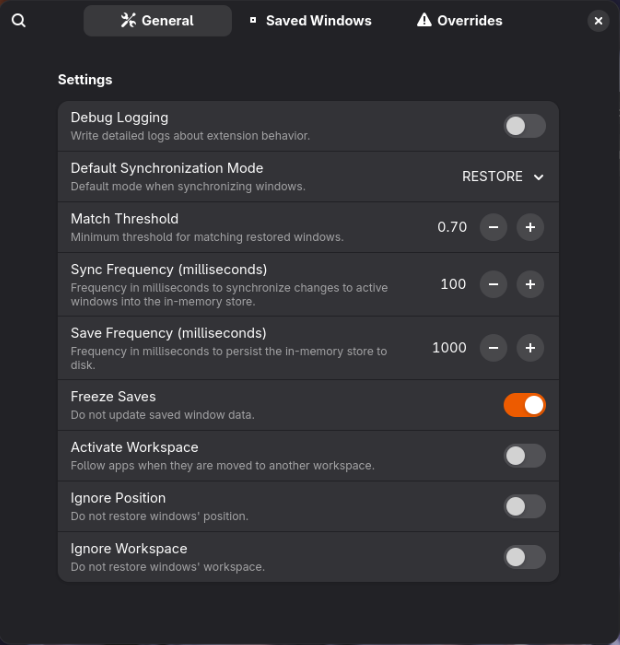
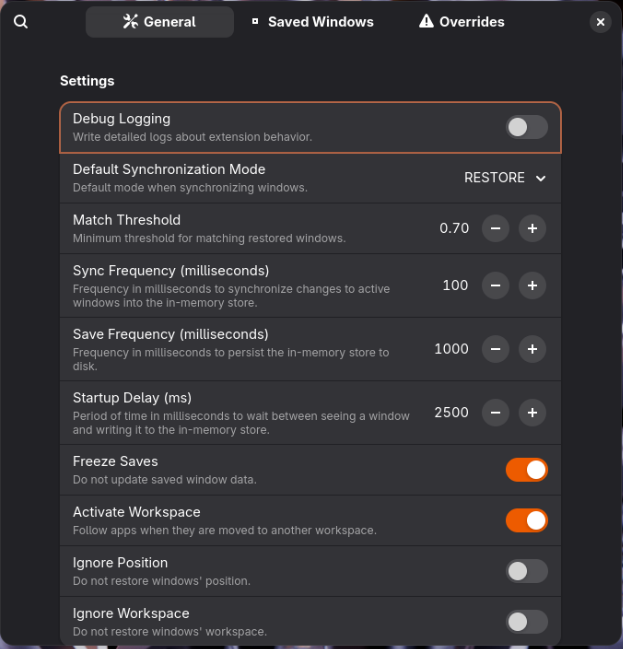
Adds startup delay to preferences (#11)
* Adds startup delay setting

Introduces a new setting to control the delay between window detection and saving.

This allows users to fine-tune how quickly the extension reacts to new windows.

Also adjusts increment rates for match threshold and other settings.

* Bumped version

* Screenshot

diff --git a/SmartAutoMoveNG@lauinger-clan.de/prefs.js b/SmartAutoMoveNG@lauinger-clan.de/prefs.js
@@ -85,7 +85,7 @@ export default class SAMPreferences extends ExtensionPreferences {
         const page3 = builder.get_object("smartautomove_page3");
         window.add(page3);
         const matchthresholdspin = builder.get_object("match-threshold-spin");
-        matchthresholdspin.set_climb_rate(0.1);
+        matchthresholdspin.set_climb_rate(0.05);
         matchthresholdspin.set_digits(2);
         matchthresholdspin.set_numeric(true);
         const syncfrequencyspin = builder.get_object("sync-frequency-spin");
@@ -94,6 +94,9 @@ export default class SAMPreferences extends ExtensionPreferences {
         const savefrequencyspin = builder.get_object("save-frequency-spin");
         savefrequencyspin.set_climb_rate(50);
         savefrequencyspin.set_numeric(true);
+        const startupdelayspin = builder.get_object("startup-delay-spin");
+        startupdelayspin.set_climb_rate(100);
+        startupdelayspin.set_numeric(true);
         this._rebuildOverrides = true; // do we need to rebuild the overrides list?
 
         this._general(this.getSettings(), builder);
@@ -126,6 +129,7 @@ export default class SAMPreferences extends ExtensionPreferences {
                 "save-frequency-spin",
                 "value",
             ],
+            [Common.SETTINGS_KEY_STARTUP_DELAY, "startup-delay-spin", "value"],
             [Common.SETTINGS_KEY_FREEZE_SAVES, "freeze-saves-switch", "active"],
             [
                 Common.SETTINGS_KEY_ACTIVATE_WORKSPACE,

diff --git a/README.md b/README.md
@@ -11,7 +11,7 @@ is a Gnome Shell extension which keeps track of all application windows and rest
   </a>
 </p>
 
-## screenshots
+## Screenshots
 
 #### QuickSettings
 
@@ -31,43 +31,43 @@ The toggle in quicksettings is connected to the "Freeze saves" switch of setting
 
 ![screenshot: overrides preferences](docs/screenshot-overrides.png)
 
-## getting started
+## Getting started
 
-most settings can be modified via the extension preferences dialog.
+Most settings can be modified via the extension preferences dialog.
 
-### defaults
+### Defaults
 
-the first step is to choose your **Default Synchronization Mode**: `IGNORE` or `RESTORE`. `IGNORE` will keep track of windows but will not restore any unless an **Override** with `RESTORE` behavior is created. `RESTORE` will keep track and restore all windows unless an **Override** with `IGNORE` behavior is created.
+The first step is to choose your **Default Synchronization Mode**: `IGNORE` or `RESTORE`. `IGNORE` will keep track of windows but will not restore any unless an **Override** with `RESTORE` behavior is created. `RESTORE` will keep track and restore all windows unless an **Override** with `IGNORE` behavior is created.
 
-next is to choose your global **Match Threshold**, the default works well for most use cases. a number closer to `0.0` will match windows with less similar attributes, whereas `1.0` requires an exact match.
+Next is to choose your global **Match Threshold**, the default works well for most use cases. a number closer to `0.0` will match windows with less similar attributes, whereas `1.0` requires an exact match.
 
-advanced users can also tune extension resource usage. adjust **Sync Frequency** (memory and CPU) and **Save Frequency** (disk I/O).
+Advanced users can also tune extension resource usage. adjust **Sync Frequency** (memory and CPU) and **Save Frequency** (disk I/O).
 
-after you've dialed in your overrides, the learning apparatus can be paused. enable **Freeze Saves** to prevent changes to Saved Windows. N.B. this lose track of windows if their titles change.
+After you've dialed in your overrides, the learning apparatus can be paused. enable **Freeze Saves** to prevent changes to Saved Windows. N.B. this lose track of windows if their titles change.
 
 ### overrides
 
-to create an override, visit the **Saved Windows** tab.
+To create an override, visit the **Saved Windows** tab.
 
-to create an override for a specific window, click **OVERRIDE**.
+To create an override for a specific window, click **OVERRIDE**.
 
-to create an override for an entire application, click **OVERRIDE (ANY)**.
+To create an override for an entire application, click **OVERRIDE (ANY)**.
 
-after you've created an override, visit the **Overrides** tab.
+After you've created an override, visit the **Overrides** tab.
 
-you can change the IGNORE/RESTORE behavior here for apps and windows.
+You can change the IGNORE/RESTORE behavior here for apps and windows.
 
-for applications, a custom **Match Threshold** can be set.
+For applications, a custom **Match Threshold** can be set.
 
-## limitations
+## Limitations
 
-LIMITATION: terminals which include the current directory in the title may not reach the match threshold if they do not preserve the working directory across restarts. WORKAROUND: create a per-app override (see above) and set the threshold to a lower value, eg. `0.2`
+LIMITATION: Terminals which include the current directory in the title may not reach the match threshold if they do not preserve the working directory across restarts. WORKAROUND: create a per-app override (see above) and set the threshold to a lower value, eg. `0.2`
 
-LIMITATION: multi-monitor is not well supported and may result in windows becoming "stuck". WORKAROUND: visit the "Saved Windows" tab in preferences and delete any stuck windows.
+LIMITATION: Multi-monitor is not well supported and may result in windows becoming "stuck". WORKAROUND: visit the "Saved Windows" tab in preferences and delete any stuck windows.
 
-## troubleshooting
+## Troubleshooting
 
-if everything is horribly broken, clear your Saved Windows:
+If everything is horribly broken, clear your Saved Windows:
 
 ```
 $ gnome-extensions disable SmartAutoMoveNG@lauinger-clan.de
@@ -77,18 +77,18 @@ $ dconf write /org/gnome/shell/extensions/SmartAutoMoveNG/saved-windows '{}'
 $ gnome-extensions enable SmartAutoMoveNG@lauinger-clan.de
 ```
 
-## behavior
+## Behavior
 
-because there is no way to uniquely distinguish individual windows from an application across restarts, SmartAutoMoveNG
-uses a heuristic to uniquely identify them. this is primarily based on startup order and title. in cases where there are multiple windows with the same title, they are restored based on relative startup sequence.
+Because there is no way to uniquely distinguish individual windows from an application across restarts, SmartAutoMoveNG
+uses a heuristic to uniquely identify them. This is primarily based on startup order and title. In cases where there are multiple windows with the same title, they are restored based on relative startup sequence.
 
-titles are matched using Levenstein distance. the match bonus for title is calculated based on `(title length - distance) / title length`.
+Titles are matched using Levenstein distance. The match bonus for title is calculated based on `(title length - distance) / title length`.
 
-## settings
+## Settings
 
-most settings can be modified from the preferences GUI. this section documents all of the dconf values and is only recommended for advanced users.
+Most settings can be modified from the preferences GUI. This section documents all of the dconf values and is only recommended for advanced users.
 
-enable debug logging:
+Enable debug logging:
 
 ```
 $ dconf write /org/gnome/shell/extensions/SmartAutoMoveNG/debug-logging true
@@ -106,7 +106,7 @@ set the window synchronization (update/restore) frequency to 50ms:
 $ dconf write /org/gnome/shell/extensions/SmartAutoMoveNG/sync-frequency 50
 ```
 
-default to ignoring windows unless explicitly defined. restore all windows of the gnome-calculator app, all firefox windows except for the profile chooser, and Nautilus only if the window title is "Downloads":
+Default to ignoring windows unless explicitly defined. Restore all windows of the gnome-calculator app, all firefox windows except for the profile chooser, and Nautilus only if the window title is "Downloads":
 /
 
 ```
@@ -114,32 +114,32 @@ $ dconf write /org/gnome/shell/extensions/SmartAutoMoveNG/sync-mode "'IGNORE'"
 $ dconf write /org/gnome/shell/extensions/SmartAutoMoveNG/overrides '{"gnome-calculator": [{"action":1}], "firefox": [{"query": {"title": "Firefox - Choose User Profile"}, "action": 0}, {"action": 1}],"org.gnome.Nautilus":[{"query":{"title":"Downloads"},"action":1}]}'
 ```
 
-default to restoring all windows, but ignore the firefox profile chooser and any nautilus windows:
+Default to restoring all windows, but ignore the firefox profile chooser and any nautilus windows:
 
 ```
 $ dconf write /org/gnome/shell/extensions/SmartAutoMoveNG/sync-mode "'RESTORE'"
 $ dconf write /org/gnome/shell/extensions/SmartAutoMoveNG/overrides '{"firefox": [{"query": {"title": "Firefox - Choose User Profile"}, "action": 0}], "org.gnome.Nautilus": [{"action":0}]}'
 ```
 
-show all saved firefox windows (N.B. `jq` will fail if window title contains `\`):
+Show all saved firefox windows (N.B. `jq` will fail if window title contains `\`):
 
 ```
 $ dconf read /org/gnome/shell/extensions/SmartAutoMoveNG/saved-windows | sed "s/^'//; s/'$//" | jq -C .Firefox | less -SR
 ```
 
-there are example configs in the `examples/` dir which can be loaded (N.B. while extension is disabled) with:
+There are example configs in the `examples/` dir which can be loaded (N.B. while extension is disabled) with:
 
 ```
 $ dconf load /org/gnome/shell/extensions/SmartAutoMoveNG/ < ./examples/default-restore.dconf
 ```
 
-you can backup your config (restore is the same as above):
+You can backup your config (restore is the same as above):
 
 ```
 $ dconf dump /org/gnome/shell/extensions/SmartAutoMoveNG/ > SmartAutoMoveNG.dconf
 ```
 
-the gsettings tool can also be used to manipulate these values:
+The gsettings tool can also be used to manipulate these values:
 
 ```
 $ gsettings --schemadir ./SmartAutoMoveNG@lauinger-clan.de/schemas/ set org.gnome.shell.extensions.SmartAutoMoveNG sync-mode 'RESTORE'
